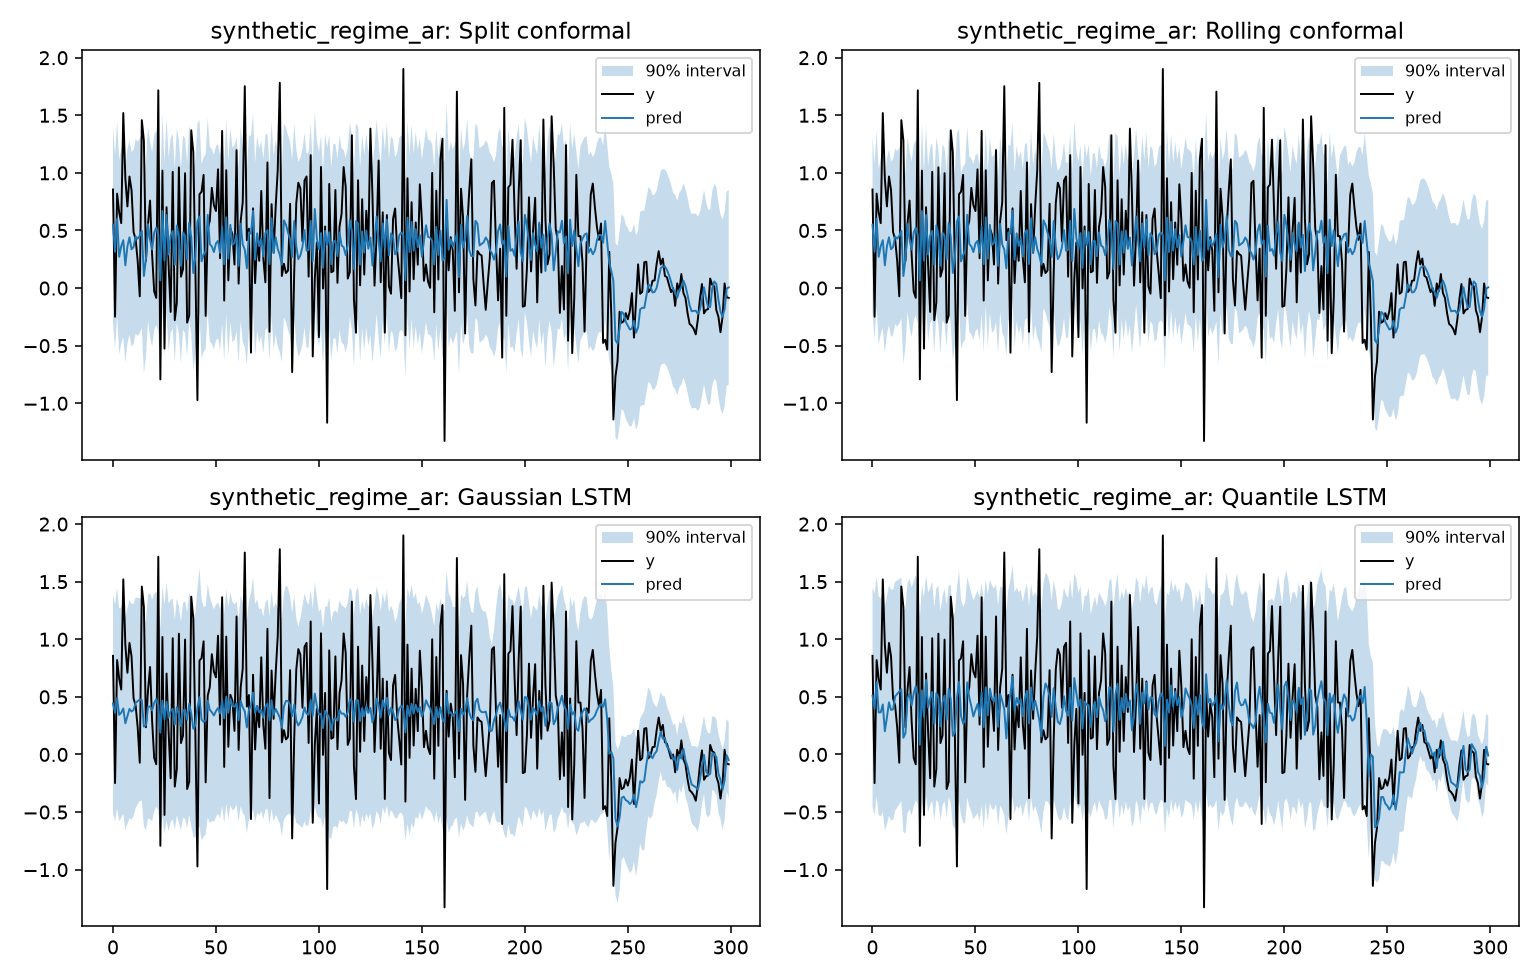
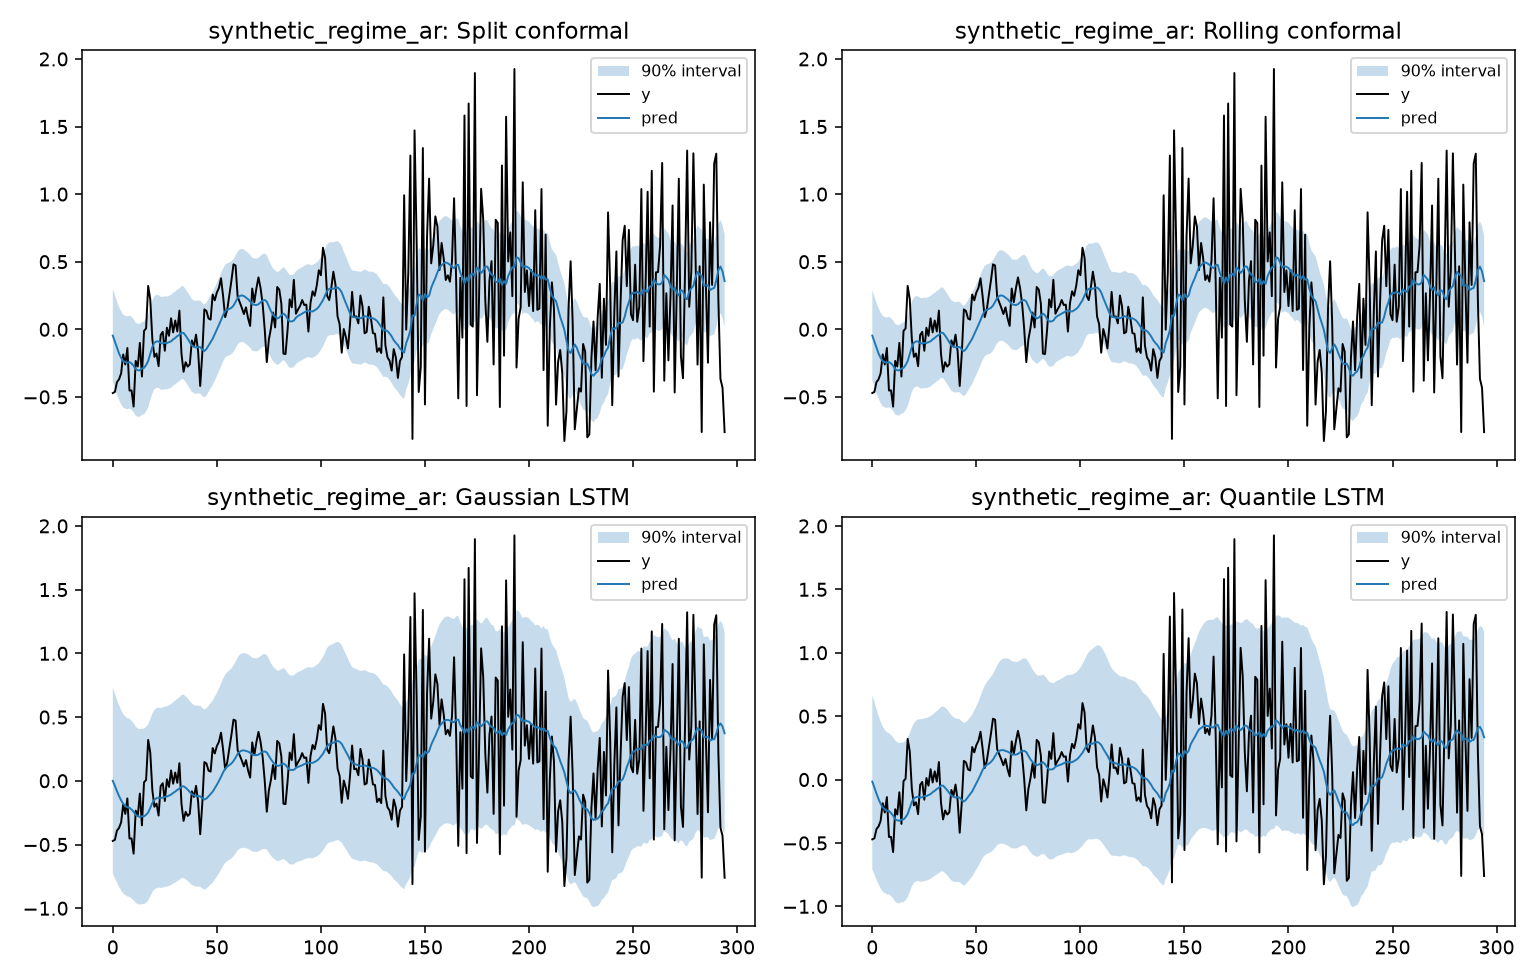
Update experiment results, figures, and technical report summary.

diff --git a/reports/technical_report.md b/reports/technical_report.md
@@ -39,7 +39,7 @@ For nominal coverage \(1-\alpha\) (default 90%):
 - Regime-conditional coverage on the test window  
 - OOD stress: metrics restricted to the highest-volatility regime in test  
 
-## 3. Results (auto-generated from `results/metrics.json`)
+## 3. Results (from latest `results/metrics.json`)
 
 Target coverage: 90%.
 
@@ -47,31 +47,31 @@ Target coverage: 90%.
 
 | Method | Coverage | Mean width | Cal. error |
 |---|---:|---:|---:|
-| `point_lstm_split_conformal` | 0.933 | 1.689 | 0.033 |
-| `point_lstm_rolling_conformal` | 0.903 | 1.525 | 0.003 |
-| `gaussian_lstm` | 0.926 | 1.389 | 0.026 |
-| `quantile_lstm` | 0.917 | 1.332 | 0.017 |
+| `point_lstm_split_conformal` | 0.678 | 0.687 | 0.222 |
+| `point_lstm_rolling_conformal` | 0.675 | 0.669 | 0.225 |
+| `gaussian_lstm` | 0.881 | 1.507 | 0.019 |
+| `quantile_lstm` | 0.878 | 1.447 | 0.022 |
 
 OOD stress regime id=2:
 
-- `point_lstm_split_conformal` coverage=0.894, width=1.689
-- `gaussian_lstm` coverage=0.913, width=1.868
-- `quantile_lstm` coverage=0.913, width=1.835
+- `point_lstm_split_conformal` coverage=0.438, width=0.687
+- `gaussian_lstm` coverage=0.769, width=1.558
+- `quantile_lstm` coverage=0.754, width=1.537
 
 ### finance_like_returns
 
 | Method | Coverage | Mean width | Cal. error |
 |---|---:|---:|---:|
-| `point_lstm_split_conformal` | 0.914 | 3.811 | 0.014 |
-| `point_lstm_rolling_conformal` | 0.914 | 3.811 | 0.014 |
-| `gaussian_lstm` | 0.913 | 3.703 | 0.013 |
-| `quantile_lstm` | 0.897 | 3.550 | 0.003 |
+| `point_lstm_split_conformal` | 0.983 | 4.948 | 0.083 |
+| `point_lstm_rolling_conformal` | 0.979 | 4.688 | 0.079 |
+| `gaussian_lstm` | 0.919 | 2.962 | 0.019 |
+| `quantile_lstm` | 0.945 | 3.671 | 0.045 |
 
 OOD stress regime id=2:
 
-- `point_lstm_split_conformal` coverage=0.905, width=3.811
-- `gaussian_lstm` coverage=0.903, width=3.848
-- `quantile_lstm` coverage=0.886, width=3.653
+- `point_lstm_split_conformal` coverage=0.959, width=4.948
+- `gaussian_lstm` coverage=0.806, width=2.962
+- `quantile_lstm` coverage=0.867, width=3.667
 
 ## 4. Limitations and next steps
 

diff --git a/results/SUMMARY.md b/results/SUMMARY.md
@@ -4,15 +4,15 @@ Target coverage: 90%
 ## synthetic_regime_ar
 | Method | Coverage | Mean width | Calibration error |
 |---|---:|---:|---:|
-| point_lstm_split_conformal | 0.933 | 1.689 | 0.033 |
-| point_lstm_rolling_conformal | 0.903 | 1.525 | 0.003 |
-| gaussian_lstm | 0.926 | 1.389 | 0.026 |
-| quantile_lstm | 0.917 | 1.332 | 0.017 |
+| point_lstm_split_conformal | 0.678 | 0.687 | 0.222 |
+| point_lstm_rolling_conformal | 0.675 | 0.669 | 0.225 |
+| gaussian_lstm | 0.881 | 1.507 | 0.019 |
+| quantile_lstm | 0.878 | 1.447 | 0.022 |
 
 ## finance_like_returns
 | Method | Coverage | Mean width | Calibration error |
 |---|---:|---:|---:|
-| point_lstm_split_conformal | 0.914 | 3.811 | 0.014 |
-| point_lstm_rolling_conformal | 0.914 | 3.811 | 0.014 |
-| gaussian_lstm | 0.913 | 3.703 | 0.013 |
-| quantile_lstm | 0.897 | 3.550 | 0.003 |
+| point_lstm_split_conformal | 0.983 | 4.948 | 0.083 |
+| point_lstm_rolling_conformal | 0.979 | 4.688 | 0.079 |
+| gaussian_lstm | 0.919 | 2.962 | 0.019 |
+| quantile_lstm | 0.945 | 3.671 | 0.045 |
